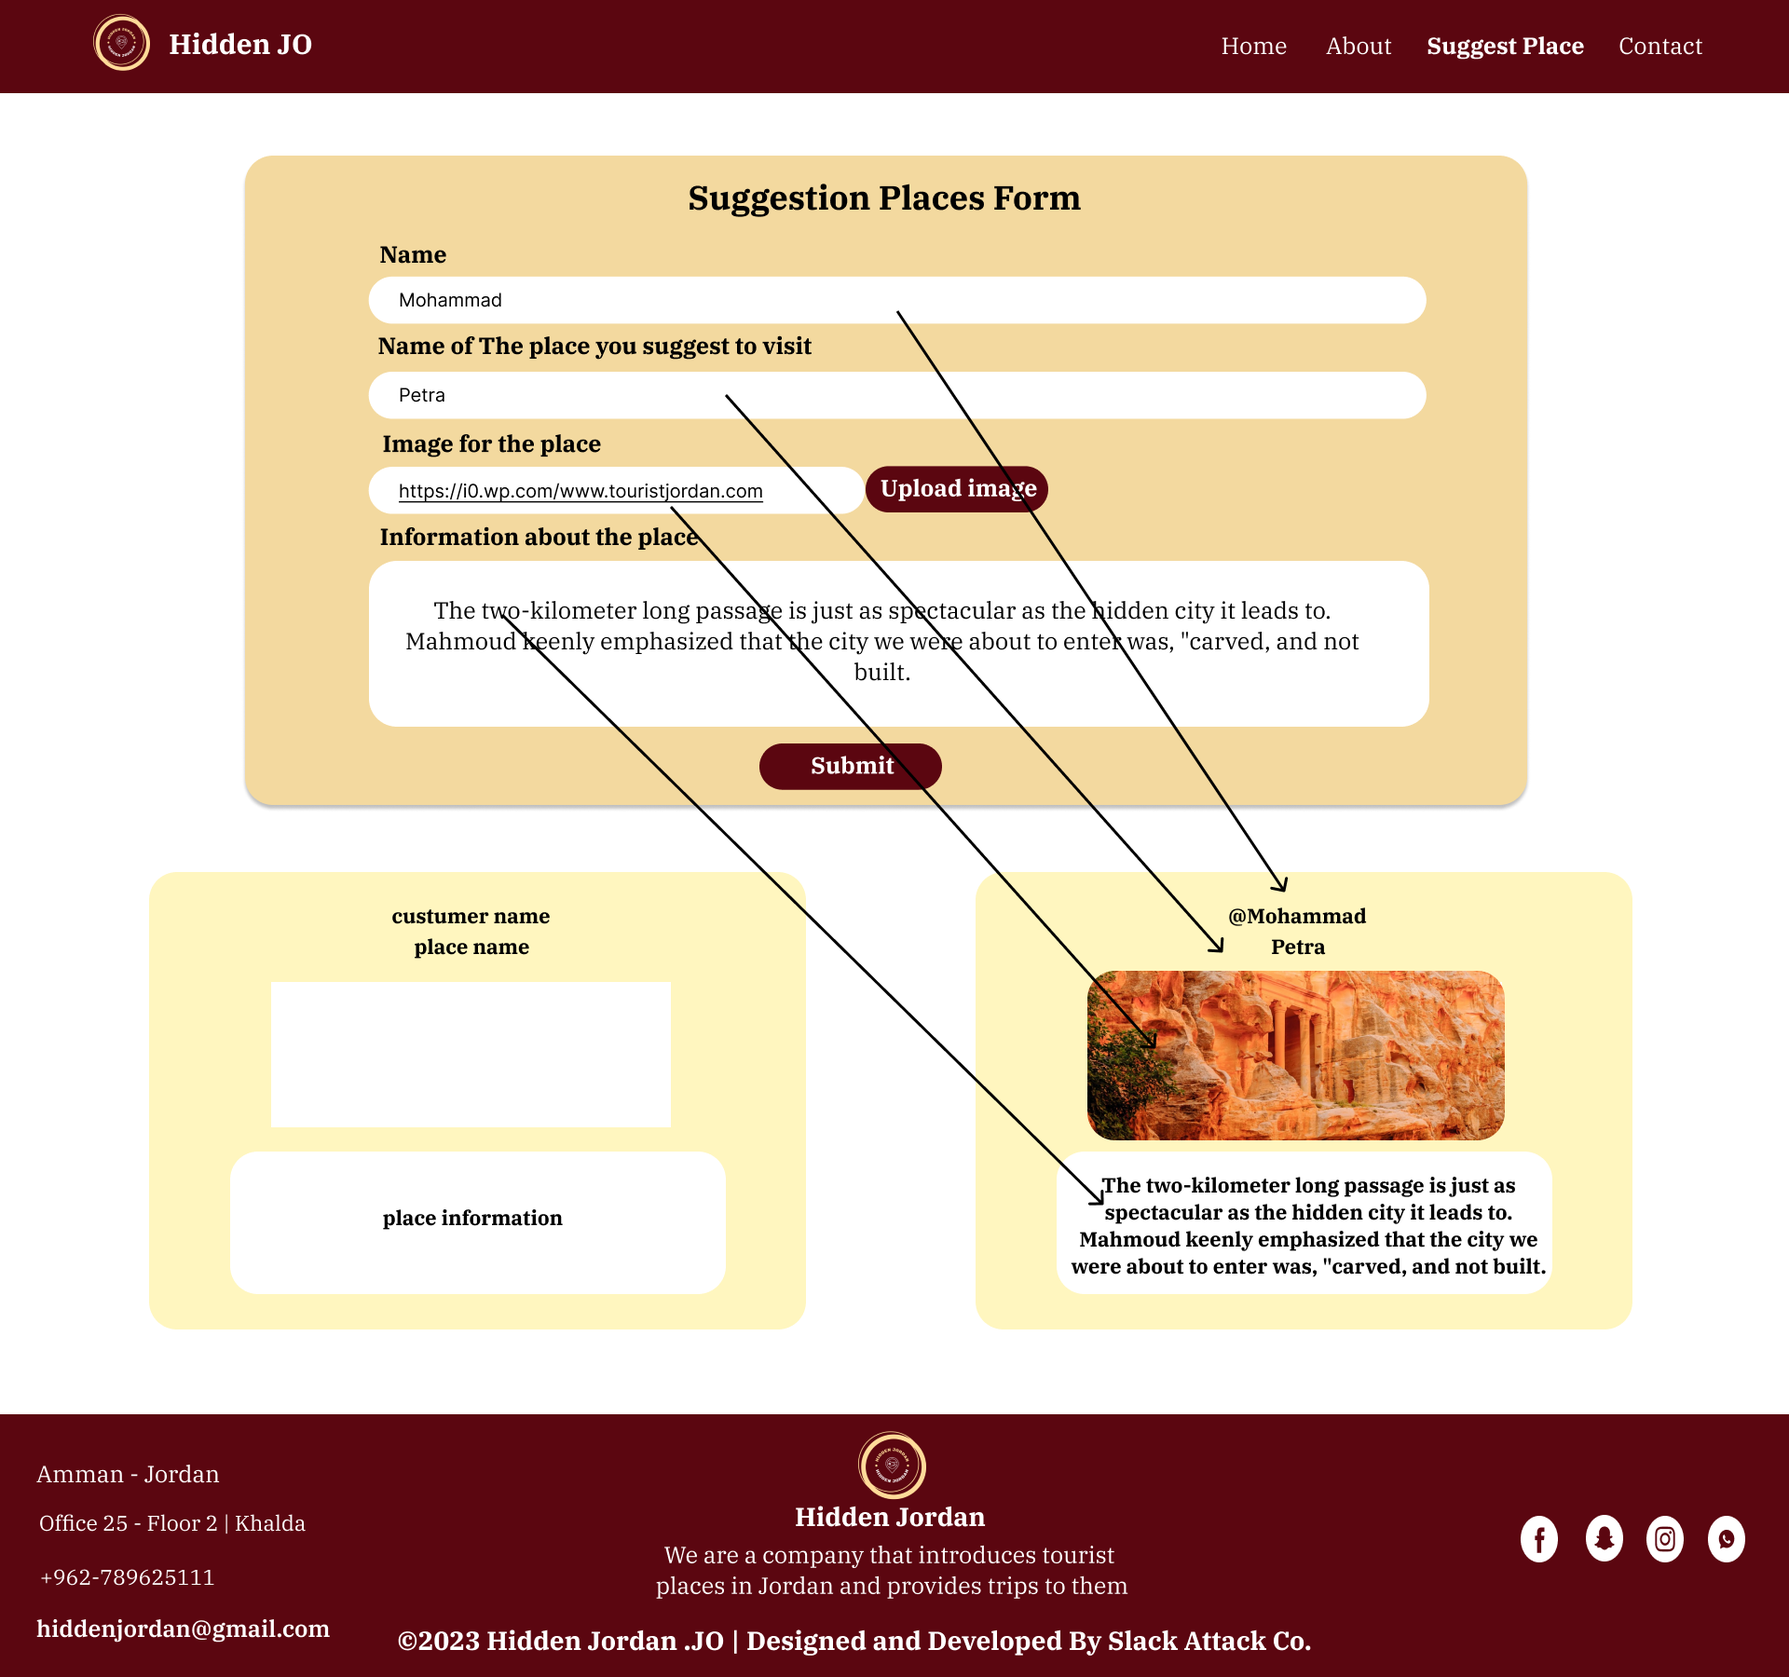
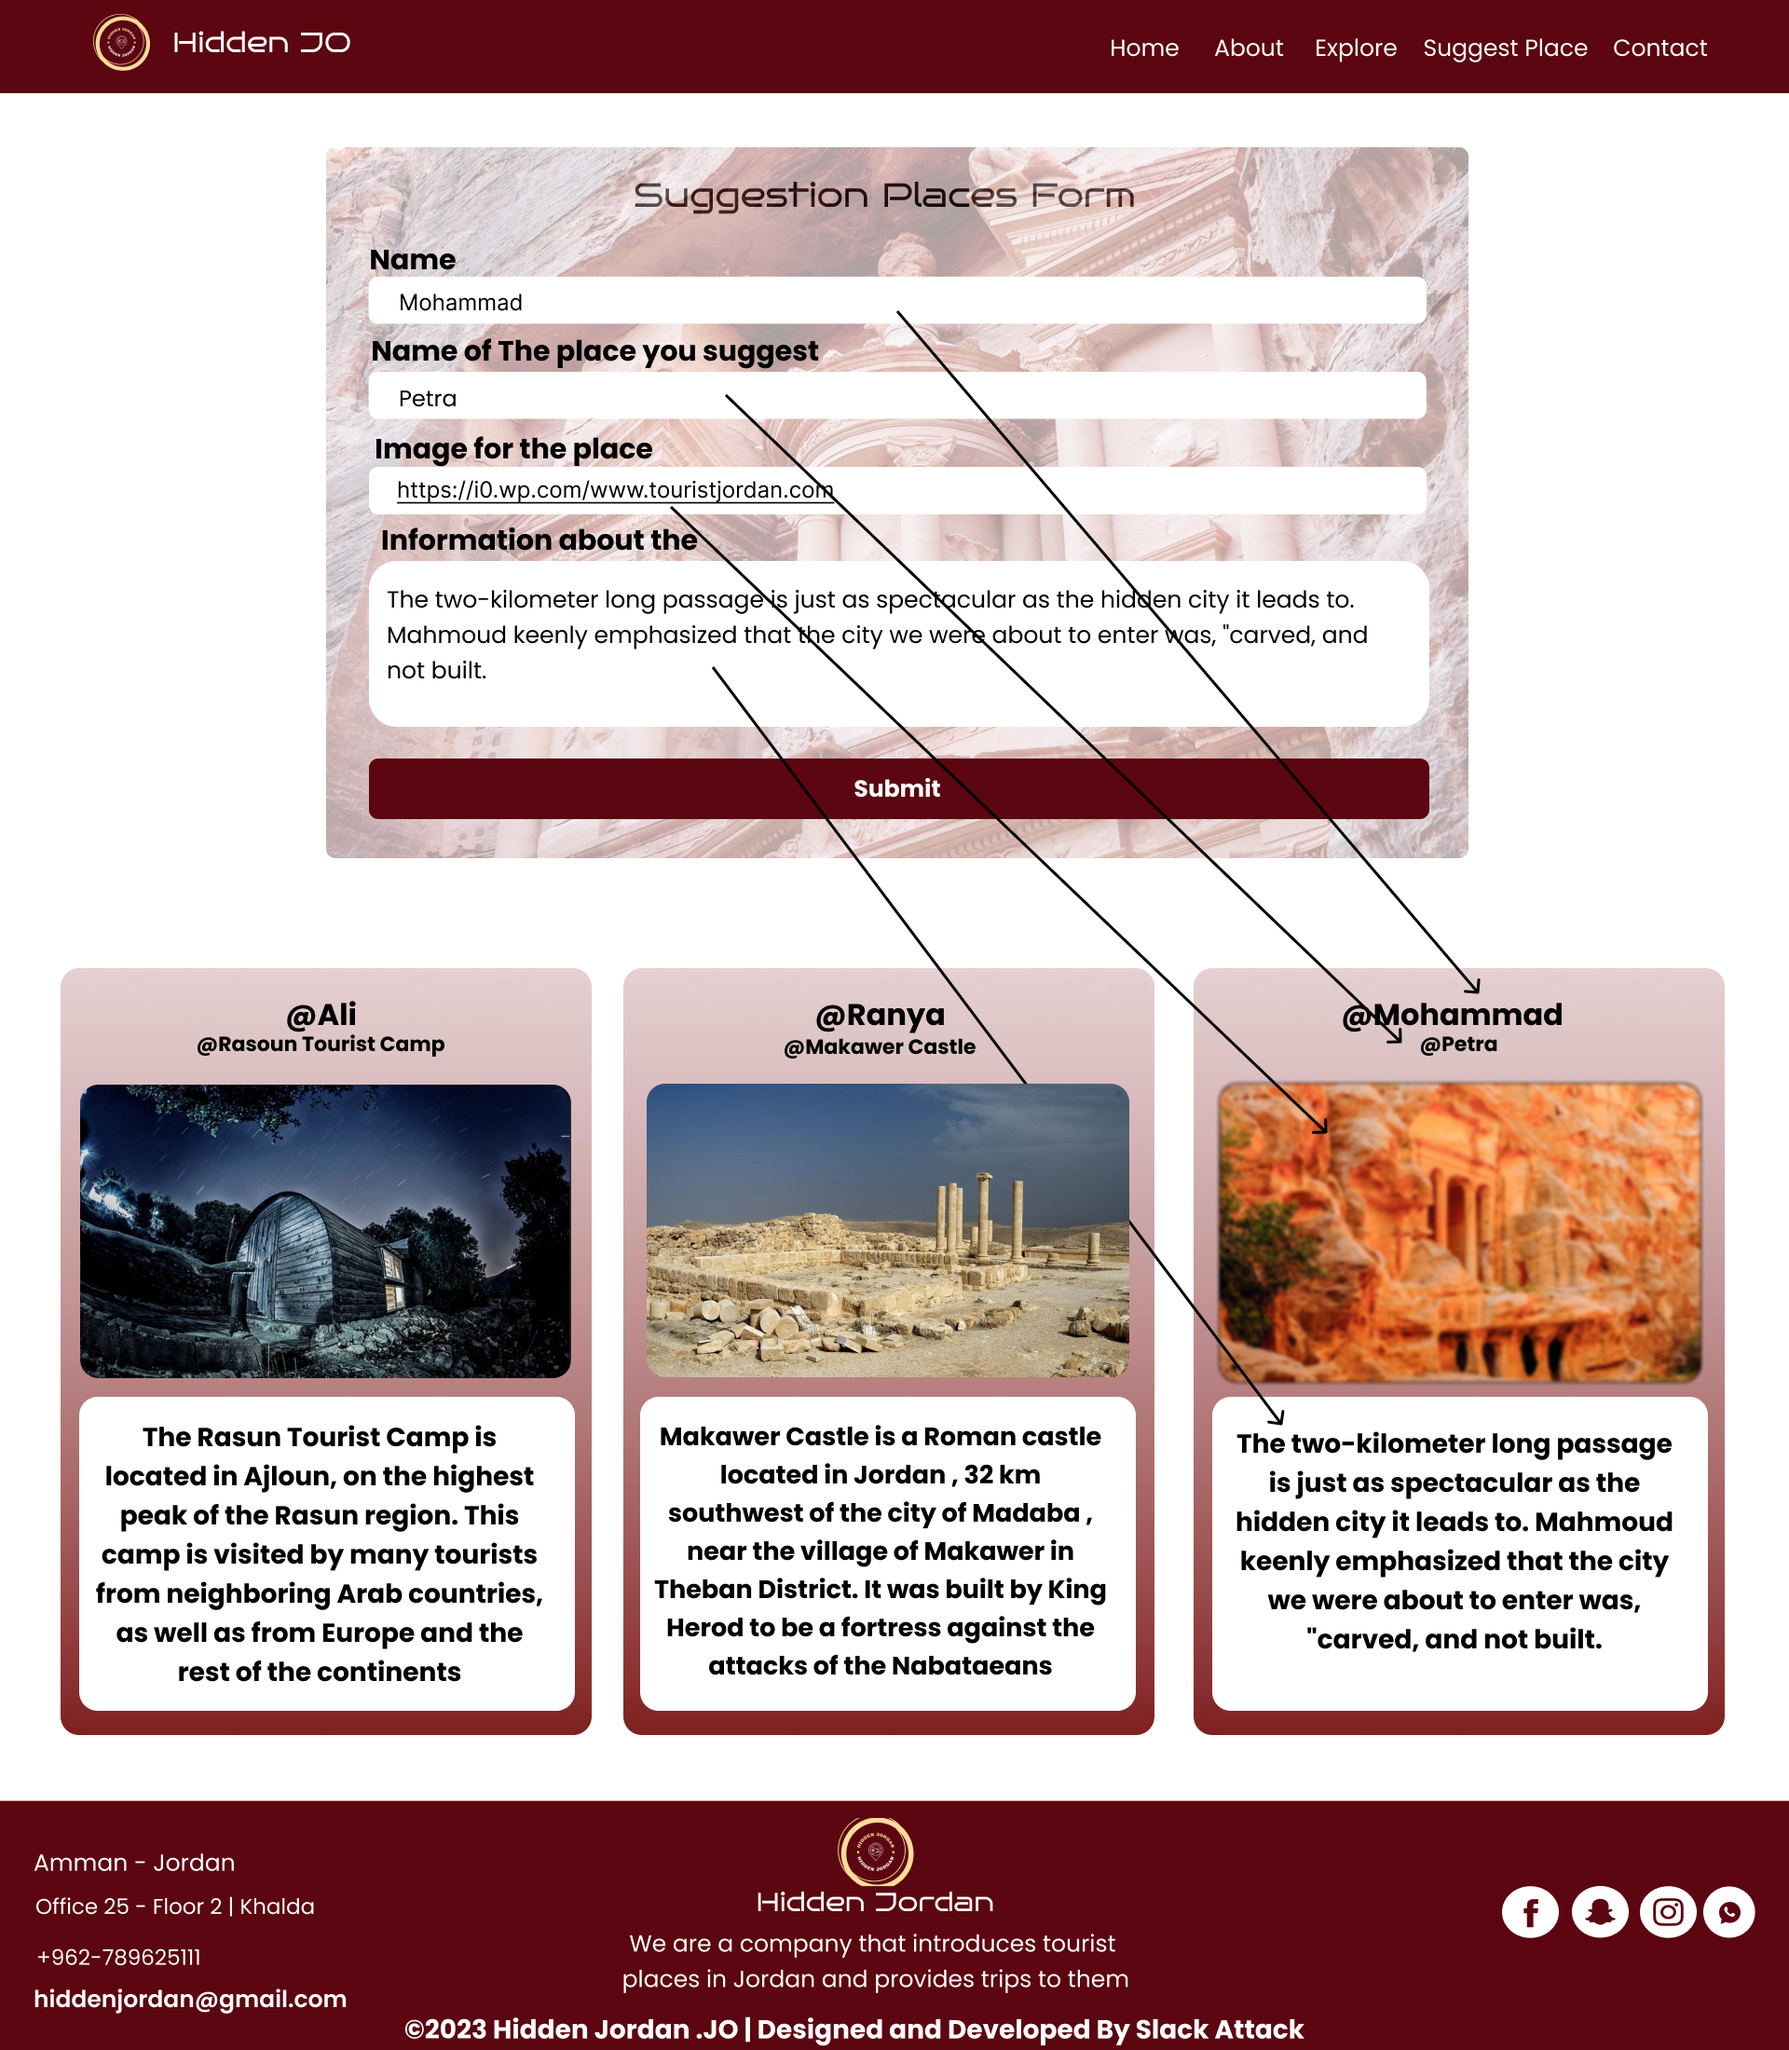
update :update the wireframe and design images

diff --git a/styleFile/contact-style.css b/styleFile/contact-style.css
@@ -125,7 +125,6 @@ body{
   padding-right: 30px;
   width: 800px; 
   box-shadow: 0 2px 4px rgba(0, 0, 0, 0.1);
-  background-color: #F3D99F;
   justify-items: center;
   background: rgba(112, 10, 10, 0.281);
   background-image: url(./55.png); 
@@ -154,7 +153,7 @@ textarea {
   font-size: 15px;
   font-family: 'Poppins', sans-serif;
   border-radius: 4px;
-  background-color: white;
+  background-color:aliceblue;
   border: 1px solid #ccc;
   padding: 8px;
 }

diff --git a/jsFile/suggestedplaces.js b/jsFile/suggestedplaces.js
@@ -50,7 +50,7 @@ cardRender.appendChild(placeimageRender)
 
 let placemessageRender=document.createElement('p')
 placemessageRender.textContent=placesArray[i].placeMessage
-placemessageRender.style.backgroundColor="white"
+placemessageRender.style.backgroundColor="aliceblue"
 placemessageRender.style.borderRadius="10px"
 placemessageRender.style.margin="20px"
 placemessageRender.style.height="230px"

diff --git a/contact.html b/contact.html
@@ -55,7 +55,7 @@
 
 
  
-   <h1 class="para1">Love to hear from you,get in touch &#128075 </h1>
+   <h1 class="para1">Love to hear from you, get in touch &#128075 </h1>
    <!-- <h1 class="para2">get in touch &#128075;</h1>--> 
   
   

diff --git a/styleFile/suggestedPlaces-style.css b/styleFile/suggestedPlaces-style.css
@@ -155,7 +155,7 @@ input,textarea{
   font-size: 15px;
   font-family: 'Poppins', sans-serif;
   border-radius: 4px;
-  background-color: white;
+  background-color:aliceblue;
   border: 1px solid #ccc;
   padding: 8px;
 }
